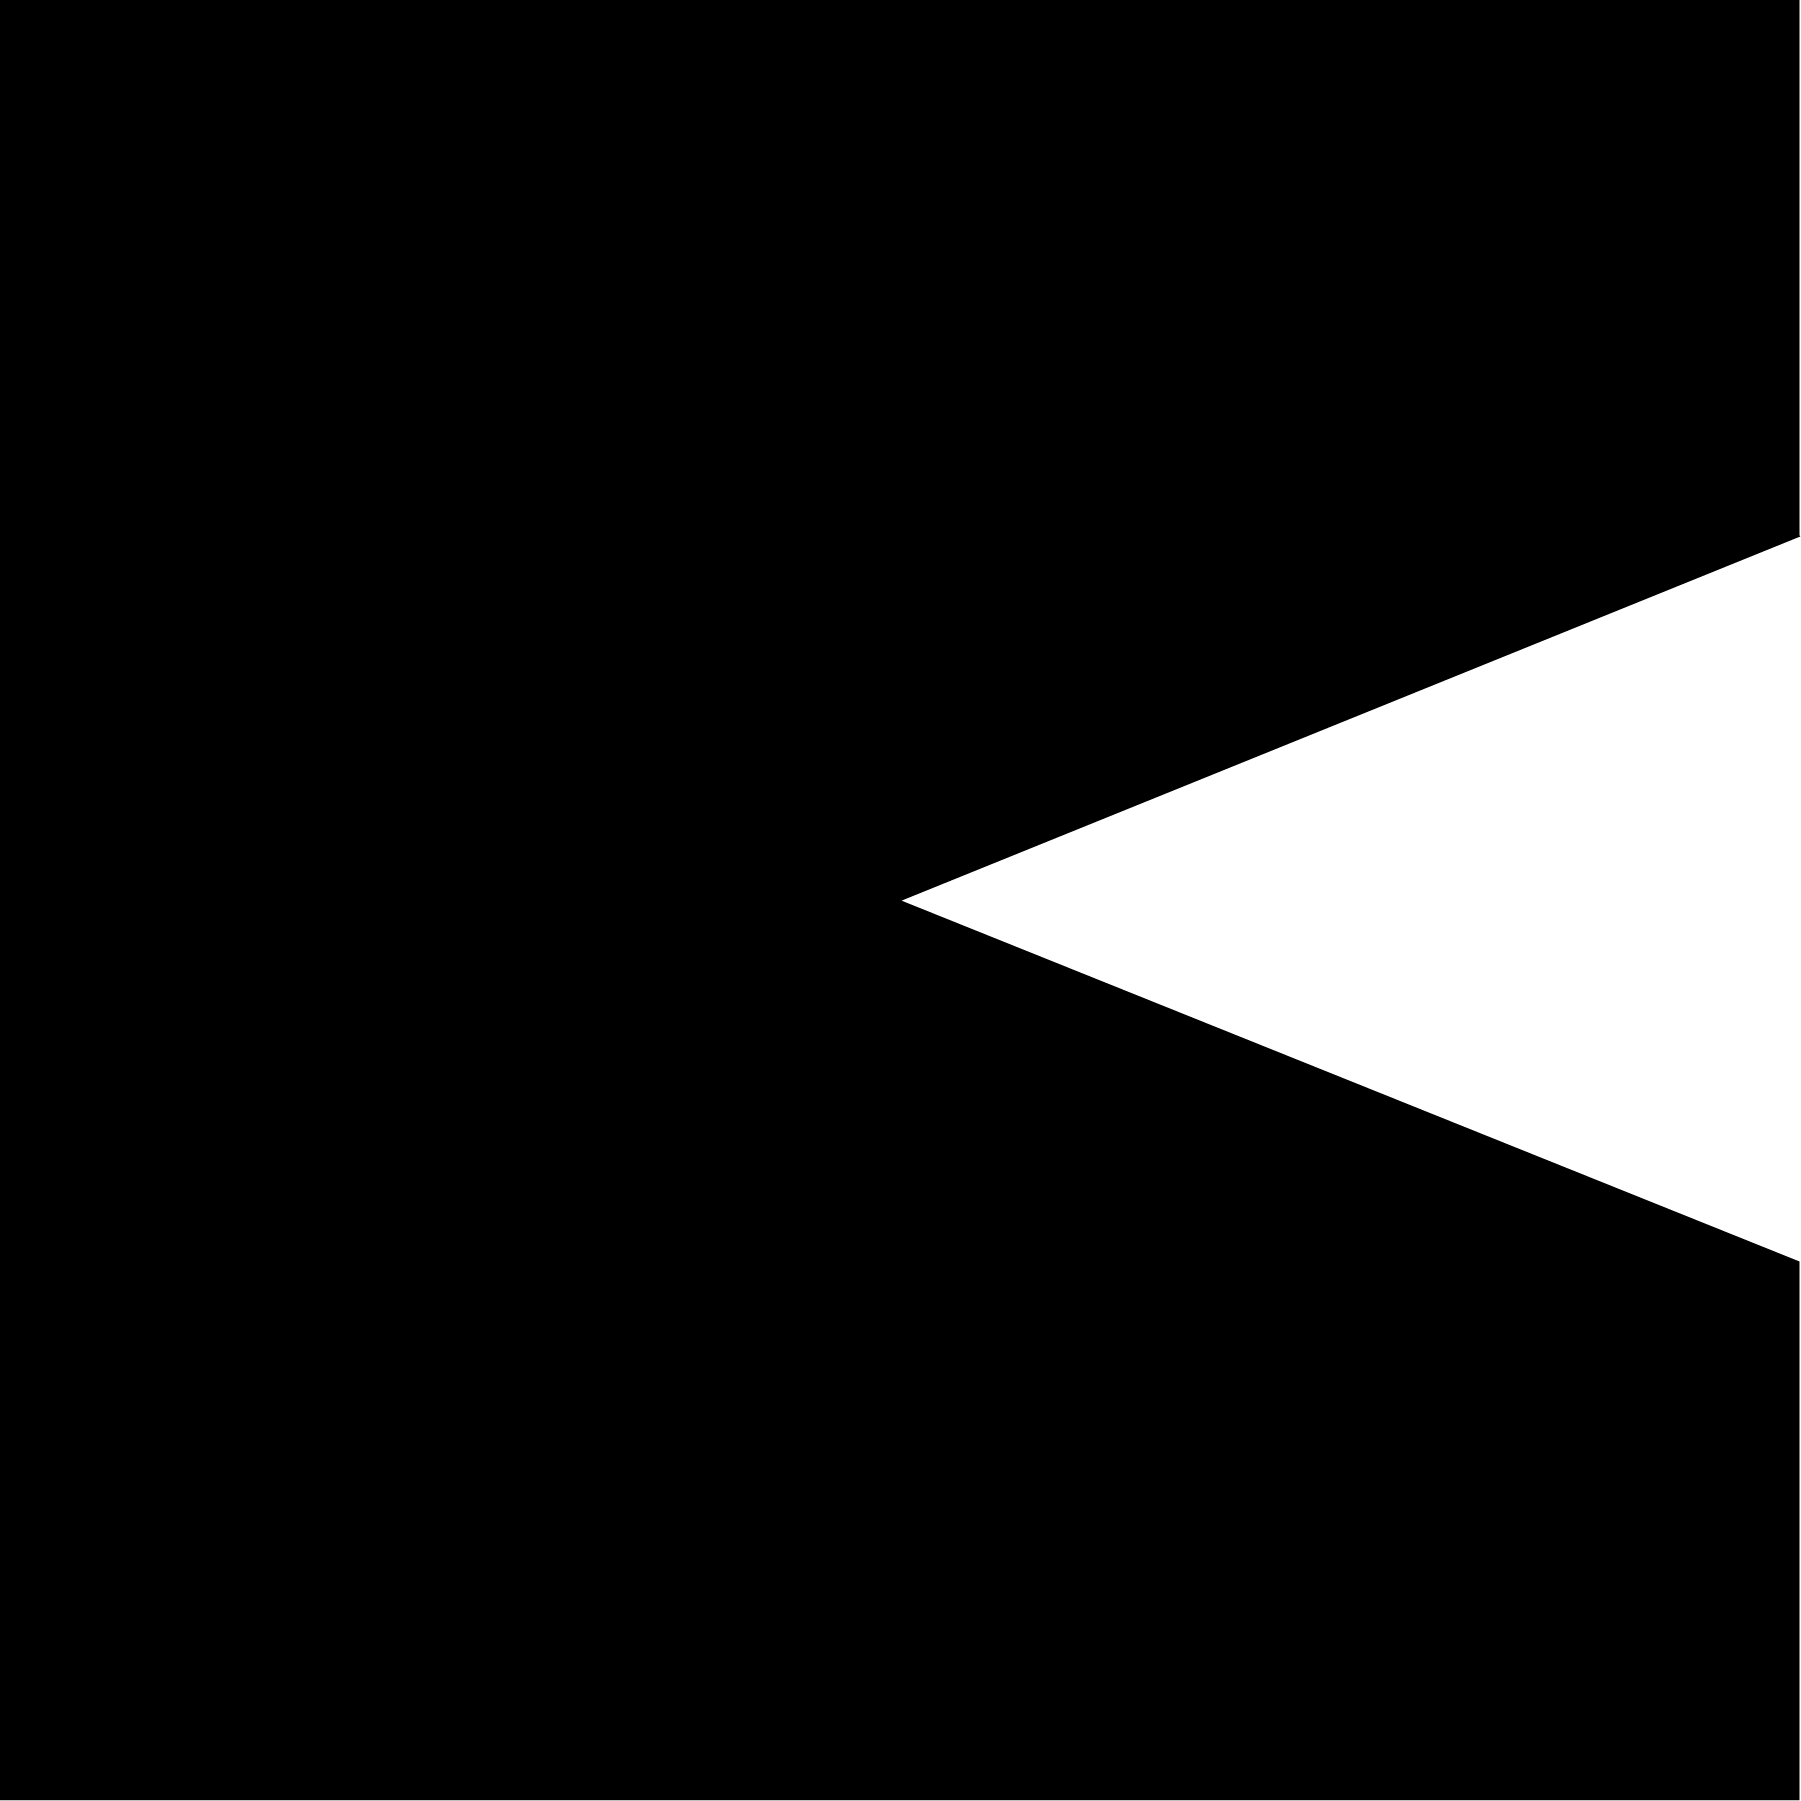
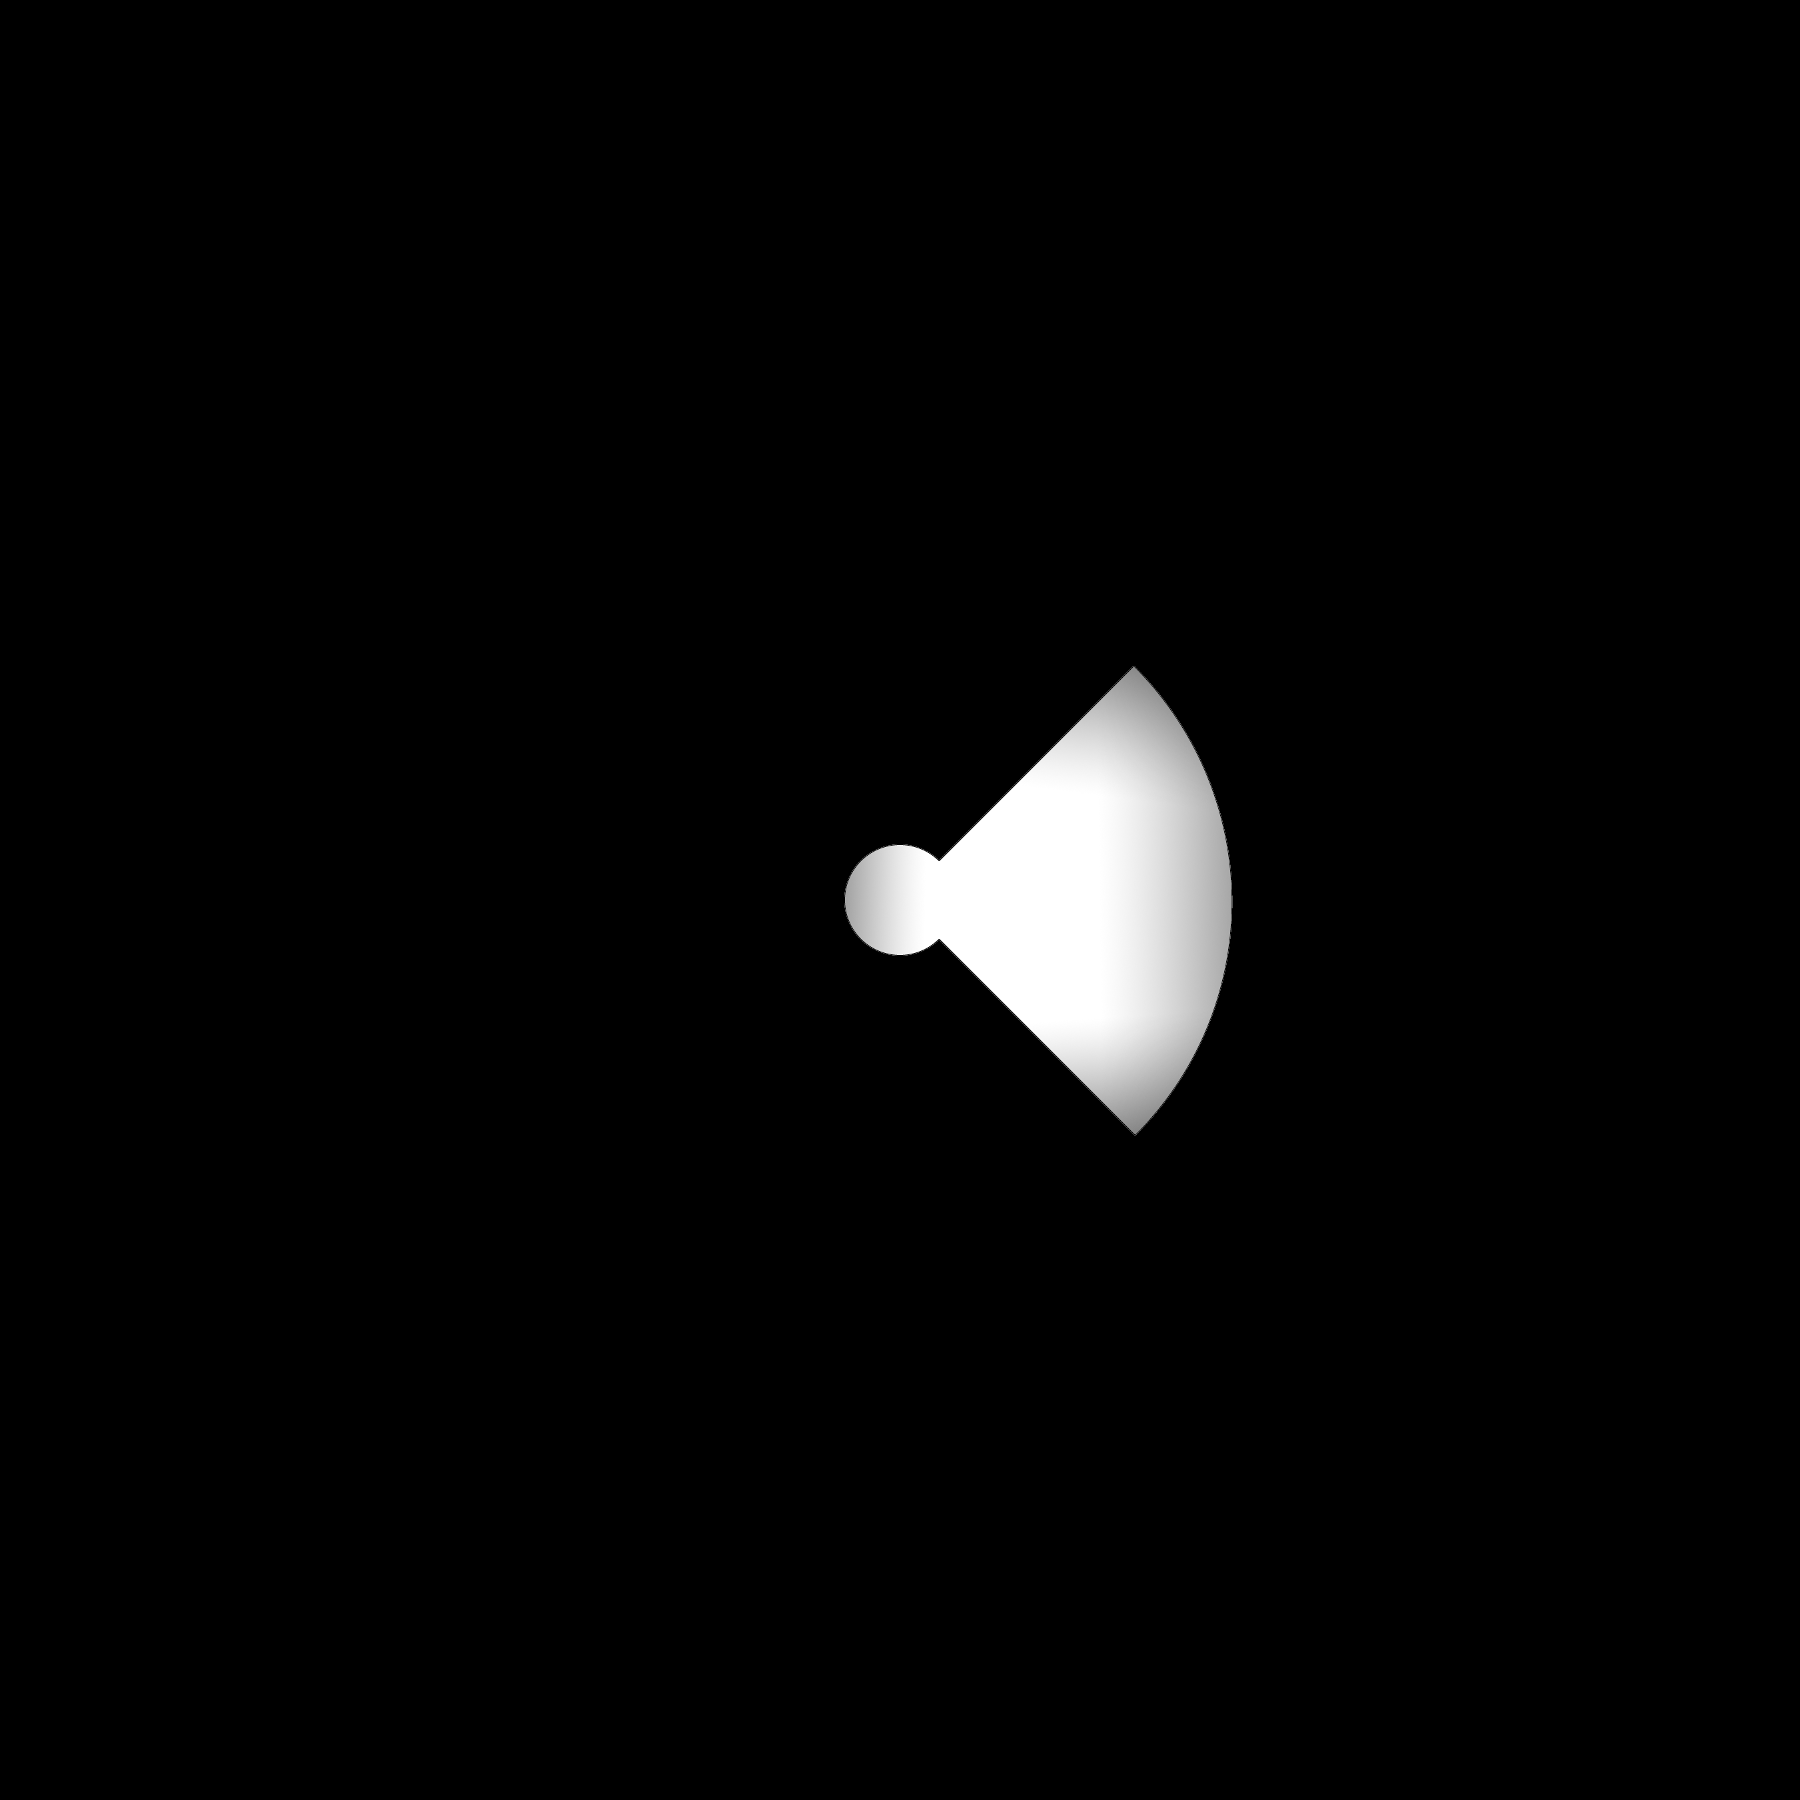
Torch: fix picture + create appripriate function

Changed region(s): [[0.0, 0.0, 1.0, 1.0]]

diff --git a/Client/include/unionproto.pb.h b/Client/include/unionproto.pb.h
@@ -109,8 +109,7 @@ extern "C" {
 #define SDL_Rect_init_default                    {0, 0, 0, 0}
 #define Player_init_default                      {"", 0, false, 0, 0, 0, false, false, 0, 0, 0, SDL_Rect_init_default, SDL_Rect_init_default}
 #define BulletMessage_init_default               {0, 0, SDL_Rect_init_default, SDL_Rect_init_default}
-#define UnionMessage_init_default                {false, ConnectionMessage_init_default, false, ConnectionCallbackMessage_init_default, false, BulletMessage_init_default, false, GameDataMessage_init_default, false, 
-Player_init_default}
+#define UnionMessage_init_default                {false, ConnectionMessage_init_default, false, ConnectionCallbackMessage_init_default, false, BulletMessage_init_default, false, GameDataMessage_init_default, false, Player_init_default}
 #define ConnectionCallbackMessage_init_zero      {0, "", 0, 0}
 #define ConnectionMessage_init_zero              {""}
 #define GameDataMessage_init_zero                {0, 0, {{NULL}, NULL}, {{NULL}, NULL}}

diff --git a/Server/Windows/unionproto.pb.h b/Server/Windows/unionproto.pb.h
@@ -109,8 +109,7 @@ extern "C" {
 #define SDL_Rect_init_default                    {0, 0, 0, 0}
 #define Player_init_default                      {"", 0, false, 0, 0, 0, false, false, 0, 0, 0, SDL_Rect_init_default, SDL_Rect_init_default}
 #define BulletMessage_init_default               {0, 0, SDL_Rect_init_default, SDL_Rect_init_default}
-#define UnionMessage_init_default                {false, ConnectionMessage_init_default, false, ConnectionCallbackMessage_init_default, false, BulletMessage_init_default, false, GameDataMessage_init_default, false, 
-Player_init_default}
+#define UnionMessage_init_default                {false, ConnectionMessage_init_default, false, ConnectionCallbackMessage_init_default, false, BulletMessage_init_default, false, GameDataMessage_init_default, false, Player_init_default}
 #define ConnectionCallbackMessage_init_zero      {0, "", 0, 0}
 #define ConnectionMessage_init_zero              {""}
 #define GameDataMessage_init_zero                {0, 0, {{NULL}, NULL}, {{NULL}, NULL}}

diff --git a/Client/unionproto.pb.c b/Client/unionproto.pb.c
@@ -120,4 +120,6 @@ PB_STATIC_ASSERT((pb_membersize(Player, Pos) < 65536 && pb_membersize(Player, sp
 	*/
 	PB_STATIC_ASSERT((pb_membersize(Player, Pos) < 256 && pb_membersize(Player, sprite) < 256 && pb_membersize(BulletMessage, pos) < 256 && pb_membersize(BulletMessage, dest) < 256 && pb_membersize(UnionMessage, connCallbackMessage) < 256 && pb_membersize(UnionMessage, connMessage) < 256 && pb_membersize(UnionMessage, bulletMessage) < 256 && pb_membersize(UnionMessage, gameData) < 256 && pb_membersize(UnionMessage, playerMessage) < 256), YOU_MUST_DEFINE_PB_FIELD_16BIT_FOR_MESSAGES_ConnectionCallbackMessage_ConnectionMessage_GameDataMessage_SDL_Rect_Player_BulletMessage_UnionMessage)
 #endif
+
+
 	/* @@protoc_insertion_point(eof) */

diff --git a/Client/include/ft_View.h b/Client/include/ft_View.h
@@ -1,0 +1,8 @@
+#ifndef FT_VIEW_H_INCLUDED
+#define FT_VIEW_H_INCLUDED
+
+int a;
+int b;
+double ft_GetViewGetDegrees(double a, double b);
+
+#endif // FT_VIEW_H_INCLUDED

diff --git a/Client/include/main.h b/Client/include/main.h
@@ -1,6 +1,6 @@
 #ifndef MAIN_H
 #define MAIN_H
-#include "include\unionproto.pb.h"
+#include "../include/unionproto.pb.h"
 
 #define true 1
 #define false 0

diff --git a/Server/Windows/pb_functions.c b/Server/Windows/pb_functions.c
@@ -123,3 +123,4 @@ bool encode_repeatedstring(pb_ostream_t *stream, const pb_field_t *field, void *
 //	return true;
 //}
 //
+
